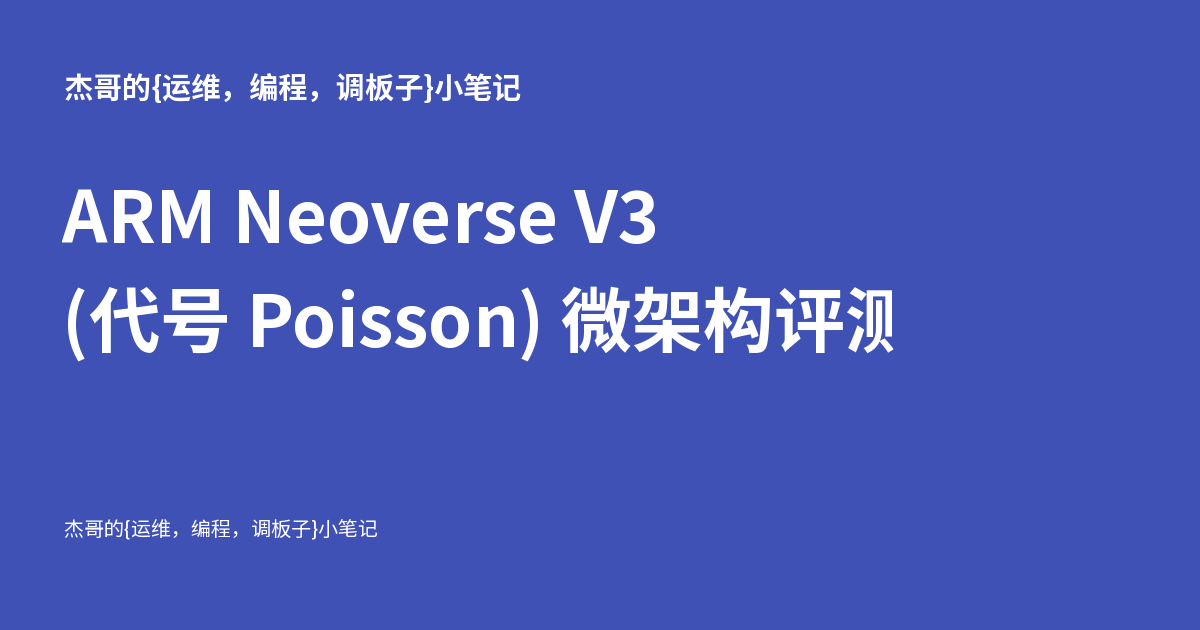
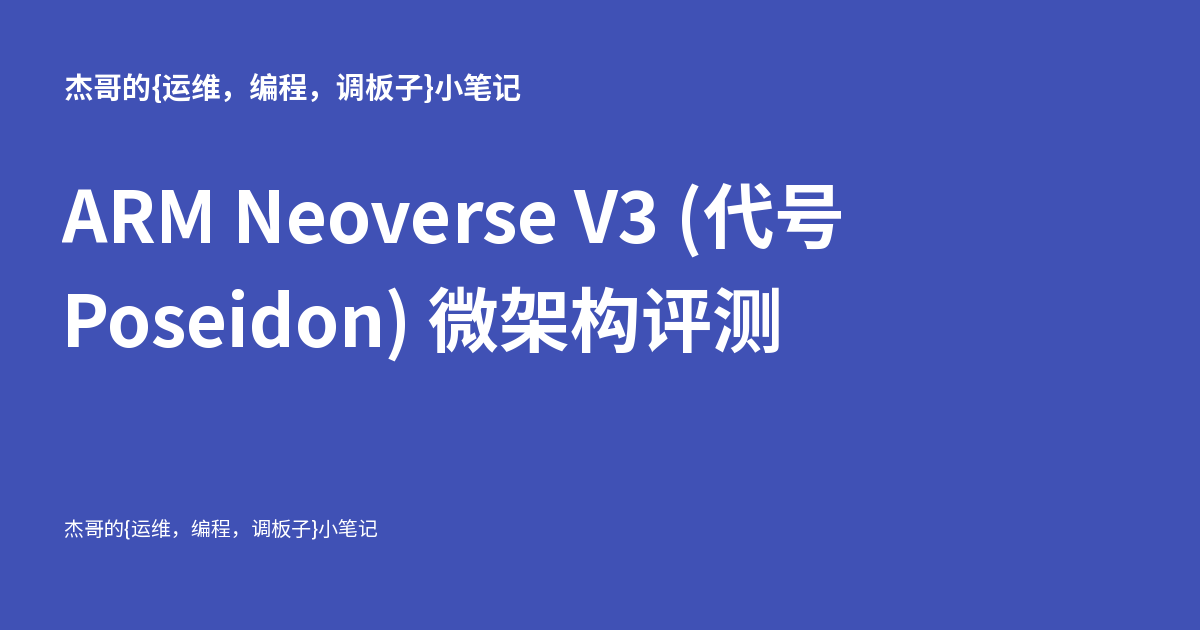
Update from https://github.com/jiegec/blog-source/commit/47133acf6865605258a6ab73eb3c6c7f72342492

Changed region(s): [[0.0617, 0.4524, 0.7708, 0.573], [0.555, 0.2714, 0.7092, 0.4222]]

diff --git a/hardware/2026/06/13/arm-neoverse-v3/index.html b/hardware/2026/06/13/arm-neoverse-v3/index.html
@@ -28,7 +28,7 @@
     
     
       
-        <title>ARM Neoverse V3 (代号 Poisson) 微架构评测 - 杰哥的{运维，编程，调板子}小笔记</title>
+        <title>ARM Neoverse V3 (代号 Poseidon) 微架构评测 - 杰哥的{运维，编程，调板子}小笔记</title>
       
     
     
@@ -82,7 +82,7 @@
     
   
 <meta property="og:type" content="website" />
-<meta property="og:title" content="ARM Neoverse V3 (代号 Poisson) 微架构评测 - 杰哥的{运维，编程，调板子}小笔记" />
+<meta property="og:title" content="ARM Neoverse V3 (代号 Poseidon) 微架构评测 - 杰哥的{运维，编程，调板子}小笔记" />
 <meta property="og:description" content="杰哥的{运维，编程，调板子}小笔记" />
 <meta property="og:image" content="https://jia.je/assets/images/social/hardware/2026/06/13/arm-neoverse-v3.png" />
 <meta property="og:image:type" content="image/png" />
@@ -90,7 +90,7 @@
 <meta property="og:image:height" content="630" />
 <meta property="og:url" content="https://jia.je/hardware/2026/06/13/arm-neoverse-v3/" />
 <meta property="twitter:card" content="summary_large_image" />
-<meta property="twitter:title" content="ARM Neoverse V3 (代号 Poisson) 微架构评测 - 杰哥的{运维，编程，调板子}小笔记" />
+<meta property="twitter:title" content="ARM Neoverse V3 (代号 Poseidon) 微架构评测 - 杰哥的{运维，编程，调板子}小笔记" />
 <meta property="twitter:description" content="杰哥的{运维，编程，调板子}小笔记" />
 <meta property="twitter:image" content="https://jia.je/assets/images/social/hardware/2026/06/13/arm-neoverse-v3.png" />
 </head>
@@ -105,7 +105,7 @@
     <div data-md-component="skip">
       
         
-        <a href="#arm-neoverse-v3-代号-poisson-微架构评测" class="md-skip">
+        <a href="#arm-neoverse-v3-代号-poseidon-微架构评测" class="md-skip">
           跳转至
         </a>
       
@@ -141,7 +141,7 @@
         <div class="md-header__topic" data-md-component="header-topic">
           <span class="md-ellipsis">
             
-              ARM Neoverse V3 (代号 Poisson) 微架构评测
+              ARM Neoverse V3 (代号 Poseidon) 微架构评测
             
           </span>
         </div>
@@ -2216,7 +2216,7 @@
   
 
 
-<h1 id="arm-neoverse-v3-代号-poisson-微架构评测">ARM Neoverse V3 (代号 Poisson) 微架构评测<a class="headerlink" href="#arm-neoverse-v3-代号-poisson-微架构评测" title="Permanent link">&para;</a></h1>
+<h1 id="arm-neoverse-v3-代号-poseidon-微架构评测">ARM Neoverse V3 (代号 Poseidon) 微架构评测<a class="headerlink" href="#arm-neoverse-v3-代号-poseidon-微架构评测" title="Permanent link">&para;</a></h1>
 <h2 id="背景">背景<a class="headerlink" href="#背景" title="Permanent link">&para;</a></h2>
 <p>使用 ARM Neoverse V3 核心的 AWS Graviton 5 最近<a href="https://aws.amazon.com/cn/blogs/aws/now-available-amazon-ec2-m9g-and-m9gd-instances-powered-by-new-aws-graviton5-processors/">上线</a>了，相比之前的 <a href="../../../../2024/11/07/arm-neoverse-v2/">Neoverse V2</a> 应该有一些改进，所以测试一下这个微架构在各个方面的表现。</p>
 <!-- more -->
@@ -2290,10 +2290,10 @@
 <p><img alt="" src="../../../../arm-neoverse-v3-phr-target-bits-location.png" /></p>
 <ul>
 <li>T[7-8]: shift 263 次</li>
-<li>T[9-10]: shift 262 次</li>
+<li>T[5,9-10]: shift 262 次</li>
 <li>T[2,11]: shift 261 次</li>
 <li>T[3-4]: shift 260 次</li>
-<li>T[5-6]: shift 259 次</li>
+<li>T[6]: shift 259 次</li>
 </ul>
 <p>找到对应位的异或关系后，推断出 PHR 共有 264*2=528 位，每个 taken branch 左移 2 位，footprint 从低位到高位如下：</p>
 <ul>
@@ -2305,10 +2305,10 @@
 <li>B[7] xor B[13] xor T[2]</li>
 <li>B[8] xor B[14] xor T[3]</li>
 <li>B[9] xor B[15] xor T[4]</li>
-<li>B[10] xor B[16] xor T[5]</li>
+<li>B[10] xor B[16]</li>
 <li>B[11] xor B[17] xor T[6]</li>
 </ul>
-<p>和 Neoverse V2 的 PHR 构造完全相同。</p>
+<p>其中 T[5] 没有找到异或关系。和 Neoverse V2 的 PHR 构造只有很小的区别：Neoverse V2 中，T[5] shift 次数是 259。</p>
 <h2 id="后端">后端<a class="headerlink" href="#后端" title="Permanent link">&para;</a></h2>
 <h3 id="dispatch">Dispatch<a class="headerlink" href="#dispatch" title="Permanent link">&para;</a></h3>
 <p>官方信息：up to 10 MOPs per cycle and up to 20 uOPs per cycle, with the following limitations on the number of µOPs of each type that may be simultaneously dispatched:</p>
@@ -2513,7 +2513,7 @@
     <span class="md-icon" title="最后更新">
       <svg xmlns="http://www.w3.org/2000/svg" viewBox="0 0 24 24"><path d="M21 13.1c-.1 0-.3.1-.4.2l-1 1 2.1 2.1 1-1c.2-.2.2-.6 0-.8l-1.3-1.3c-.1-.1-.2-.2-.4-.2m-1.9 1.8-6.1 6V23h2.1l6.1-6.1zM12.5 7v5.2l4 2.4-1 1L11 13V7zM11 21.9c-5.1-.5-9-4.8-9-9.9C2 6.5 6.5 2 12 2c5.3 0 9.6 4.1 10 9.3-.3-.1-.6-.2-1-.2s-.7.1-1 .2C19.6 7.2 16.2 4 12 4c-4.4 0-8 3.6-8 8 0 4.1 3.1 7.5 7.1 7.9l-.1.2z"/></svg>
     </span>
-    <span class="git-revision-date-localized-plugin git-revision-date-localized-plugin-date" title="2026年6月13日 04:46:33 UTC">2026年6月13日</span>
+    <span class="git-revision-date-localized-plugin git-revision-date-localized-plugin-date" title="2026年6月13日 05:02:08 UTC">2026年6月13日</span>
   </span>
 
     
@@ -2572,7 +2572,7 @@
 }
 </style>
 <script>
-const BIBTEX_TITLE = "ARM Neoverse V3 (\u4ee3\u53f7 Poisson) \u5fae\u67b6\u6784\u8bc4\u6d4b";
+const BIBTEX_TITLE = "ARM Neoverse V3 (\u4ee3\u53f7 Poseidon) \u5fae\u67b6\u6784\u8bc4\u6d4b";
 const BIBTEX_DATE = "2026-06-13";
 const BIBTEX_URL = "https://jia.je/hardware/2026/06/13/arm-neoverse-v3/";
 

diff --git a/tags/index.html b/tags/index.html
@@ -11482,7 +11482,7 @@
     
       <li>
         <a href="../hardware/2026/06/13/arm-neoverse-v3/">
-          ARM Neoverse V3 (代号 Poisson) 微架构评测
+          ARM Neoverse V3 (代号 Poseidon) 微架构评测
         </a>
       </li>
     
@@ -13684,7 +13684,7 @@
     
       <li>
         <a href="../hardware/2026/06/13/arm-neoverse-v3/">
-          ARM Neoverse V3 (代号 Poisson) 微架构评测
+          ARM Neoverse V3 (代号 Poseidon) 微架构评测
         </a>
       </li>
     
@@ -21337,7 +21337,7 @@
     
       <li>
         <a href="../hardware/2026/06/13/arm-neoverse-v3/">
-          ARM Neoverse V3 (代号 Poisson) 微架构评测
+          ARM Neoverse V3 (代号 Poseidon) 微架构评测
         </a>
       </li>
     
@@ -22603,7 +22603,7 @@
     
       <li>
         <a href="../hardware/2026/06/13/arm-neoverse-v3/">
-          ARM Neoverse V3 (代号 Poisson) 微架构评测
+          ARM Neoverse V3 (代号 Poseidon) 微架构评测
         </a>
       </li>
     
@@ -26949,7 +26949,7 @@
     
       <li>
         <a href="../hardware/2026/06/13/arm-neoverse-v3/">
-          ARM Neoverse V3 (代号 Poisson) 微架构评测
+          ARM Neoverse V3 (代号 Poseidon) 微架构评测
         </a>
       </li>
     

diff --git a/archive/2026/index.html b/archive/2026/index.html
@@ -993,10 +993,10 @@
     <ul class="md-nav__list" data-md-component="toc" data-md-scrollfix>
       
         <li class="md-nav__item">
-  <a href="#arm-neoverse-v3-代号-poisson-微架构评测" class="md-nav__link">
+  <a href="#arm-neoverse-v3-代号-poseidon-微架构评测" class="md-nav__link">
     <span class="md-ellipsis">
       
-        ARM Neoverse V3 (代号 Poisson) 微架构评测
+        ARM Neoverse V3 (代号 Poseidon) 微架构评测
       
     </span>
   </a>
@@ -1972,7 +1972,7 @@
     </div>
   </header>
   <div class="md-post__content md-typeset">
-    <h2 id="arm-neoverse-v3-代号-poisson-微架构评测"><a class="toclink" href="../../hardware/2026/06/13/arm-neoverse-v3/">ARM Neoverse V3 (代号 Poisson) 微架构评测</a></h2>
+    <h2 id="arm-neoverse-v3-代号-poseidon-微架构评测"><a class="toclink" href="../../hardware/2026/06/13/arm-neoverse-v3/">ARM Neoverse V3 (代号 Poseidon) 微架构评测</a></h2>
 <h3 id="背景"><a class="toclink" href="../../hardware/2026/06/13/arm-neoverse-v3/#背景">背景</a></h3>
 <p>使用 ARM Neoverse V3 核心的 AWS Graviton 5 最近<a href="https://aws.amazon.com/cn/blogs/aws/now-available-amazon-ec2-m9g-and-m9gd-instances-powered-by-new-aws-graviton5-processors/">上线</a>了，相比之前的 <a href="../../hardware/2024/11/07/arm-neoverse-v2/">Neoverse V2</a> 应该有一些改进，所以测试一下这个微架构在各个方面的表现。</p>
 

diff --git a/category/hardware/index.html b/category/hardware/index.html
@@ -1532,10 +1532,10 @@
     <ul class="md-nav__list" data-md-component="toc" data-md-scrollfix>
       
         <li class="md-nav__item">
-  <a href="#arm-neoverse-v3-代号-poisson-微架构评测" class="md-nav__link">
+  <a href="#arm-neoverse-v3-代号-poseidon-微架构评测" class="md-nav__link">
     <span class="md-ellipsis">
       
-        ARM Neoverse V3 (代号 Poisson) 微架构评测
+        ARM Neoverse V3 (代号 Poseidon) 微架构评测
       
     </span>
   </a>
@@ -2104,7 +2104,7 @@
     </div>
   </header>
   <div class="md-post__content md-typeset">
-    <h2 id="arm-neoverse-v3-代号-poisson-微架构评测"><a class="toclink" href="../../hardware/2026/06/13/arm-neoverse-v3/">ARM Neoverse V3 (代号 Poisson) 微架构评测</a></h2>
+    <h2 id="arm-neoverse-v3-代号-poseidon-微架构评测"><a class="toclink" href="../../hardware/2026/06/13/arm-neoverse-v3/">ARM Neoverse V3 (代号 Poseidon) 微架构评测</a></h2>
 <h3 id="背景"><a class="toclink" href="../../hardware/2026/06/13/arm-neoverse-v3/#背景">背景</a></h3>
 <p>使用 ARM Neoverse V3 核心的 AWS Graviton 5 最近<a href="https://aws.amazon.com/cn/blogs/aws/now-available-amazon-ec2-m9g-and-m9gd-instances-powered-by-new-aws-graviton5-processors/">上线</a>了，相比之前的 <a href="../../hardware/2024/11/07/arm-neoverse-v2/">Neoverse V2</a> 应该有一些改进，所以测试一下这个微架构在各个方面的表现。</p>
 

diff --git a/index.html b/index.html
@@ -608,10 +608,10 @@
     <ul class="md-nav__list" data-md-component="toc" data-md-scrollfix>
       
         <li class="md-nav__item">
-  <a href="#arm-neoverse-v3-代号-poisson-微架构评测" class="md-nav__link">
+  <a href="#arm-neoverse-v3-代号-poseidon-微架构评测" class="md-nav__link">
     <span class="md-ellipsis">
       
-        ARM Neoverse V3 (代号 Poisson) 微架构评测
+        ARM Neoverse V3 (代号 Poseidon) 微架构评测
       
     </span>
   </a>
@@ -2097,7 +2097,7 @@
     </div>
   </header>
   <div class="md-post__content md-typeset">
-    <h2 id="arm-neoverse-v3-代号-poisson-微架构评测"><a class="toclink" href="hardware/2026/06/13/arm-neoverse-v3/">ARM Neoverse V3 (代号 Poisson) 微架构评测</a></h2>
+    <h2 id="arm-neoverse-v3-代号-poseidon-微架构评测"><a class="toclink" href="hardware/2026/06/13/arm-neoverse-v3/">ARM Neoverse V3 (代号 Poseidon) 微架构评测</a></h2>
 <h3 id="背景"><a class="toclink" href="hardware/2026/06/13/arm-neoverse-v3/#背景">背景</a></h3>
 <p>使用 ARM Neoverse V3 核心的 AWS Graviton 5 最近<a href="https://aws.amazon.com/cn/blogs/aws/now-available-amazon-ec2-m9g-and-m9gd-instances-powered-by-new-aws-graviton5-processors/">上线</a>了，相比之前的 <a href="hardware/2024/11/07/arm-neoverse-v2/">Neoverse V2</a> 应该有一些改进，所以测试一下这个微架构在各个方面的表现。</p>
 

diff --git a/software/2026/05/29/spec-cpu-2026-workload-analysis-fp-rate-en/index.html b/software/2026/05/29/spec-cpu-2026-workload-analysis-fp-rate-en/index.html
@@ -4837,13 +4837,13 @@ function openBibtexModal() {
         
         
           
-          <a href="../../../../../hardware/2026/06/13/arm-neoverse-v3/" class="md-footer__link md-footer__link--next" aria-label="下一页: ARM Neoverse V3 (代号 Poisson) 微架构评测">
+          <a href="../../../../../hardware/2026/06/13/arm-neoverse-v3/" class="md-footer__link md-footer__link--next" aria-label="下一页: ARM Neoverse V3 (代号 Poseidon) 微架构评测">
             <div class="md-footer__title">
               <span class="md-footer__direction">
                 下一页
               </span>
               <div class="md-ellipsis">
-                ARM Neoverse V3 (代号 Poisson) 微架构评测
+                ARM Neoverse V3 (代号 Poseidon) 微架构评测
               </div>
             </div>
             <div class="md-footer__button md-icon">